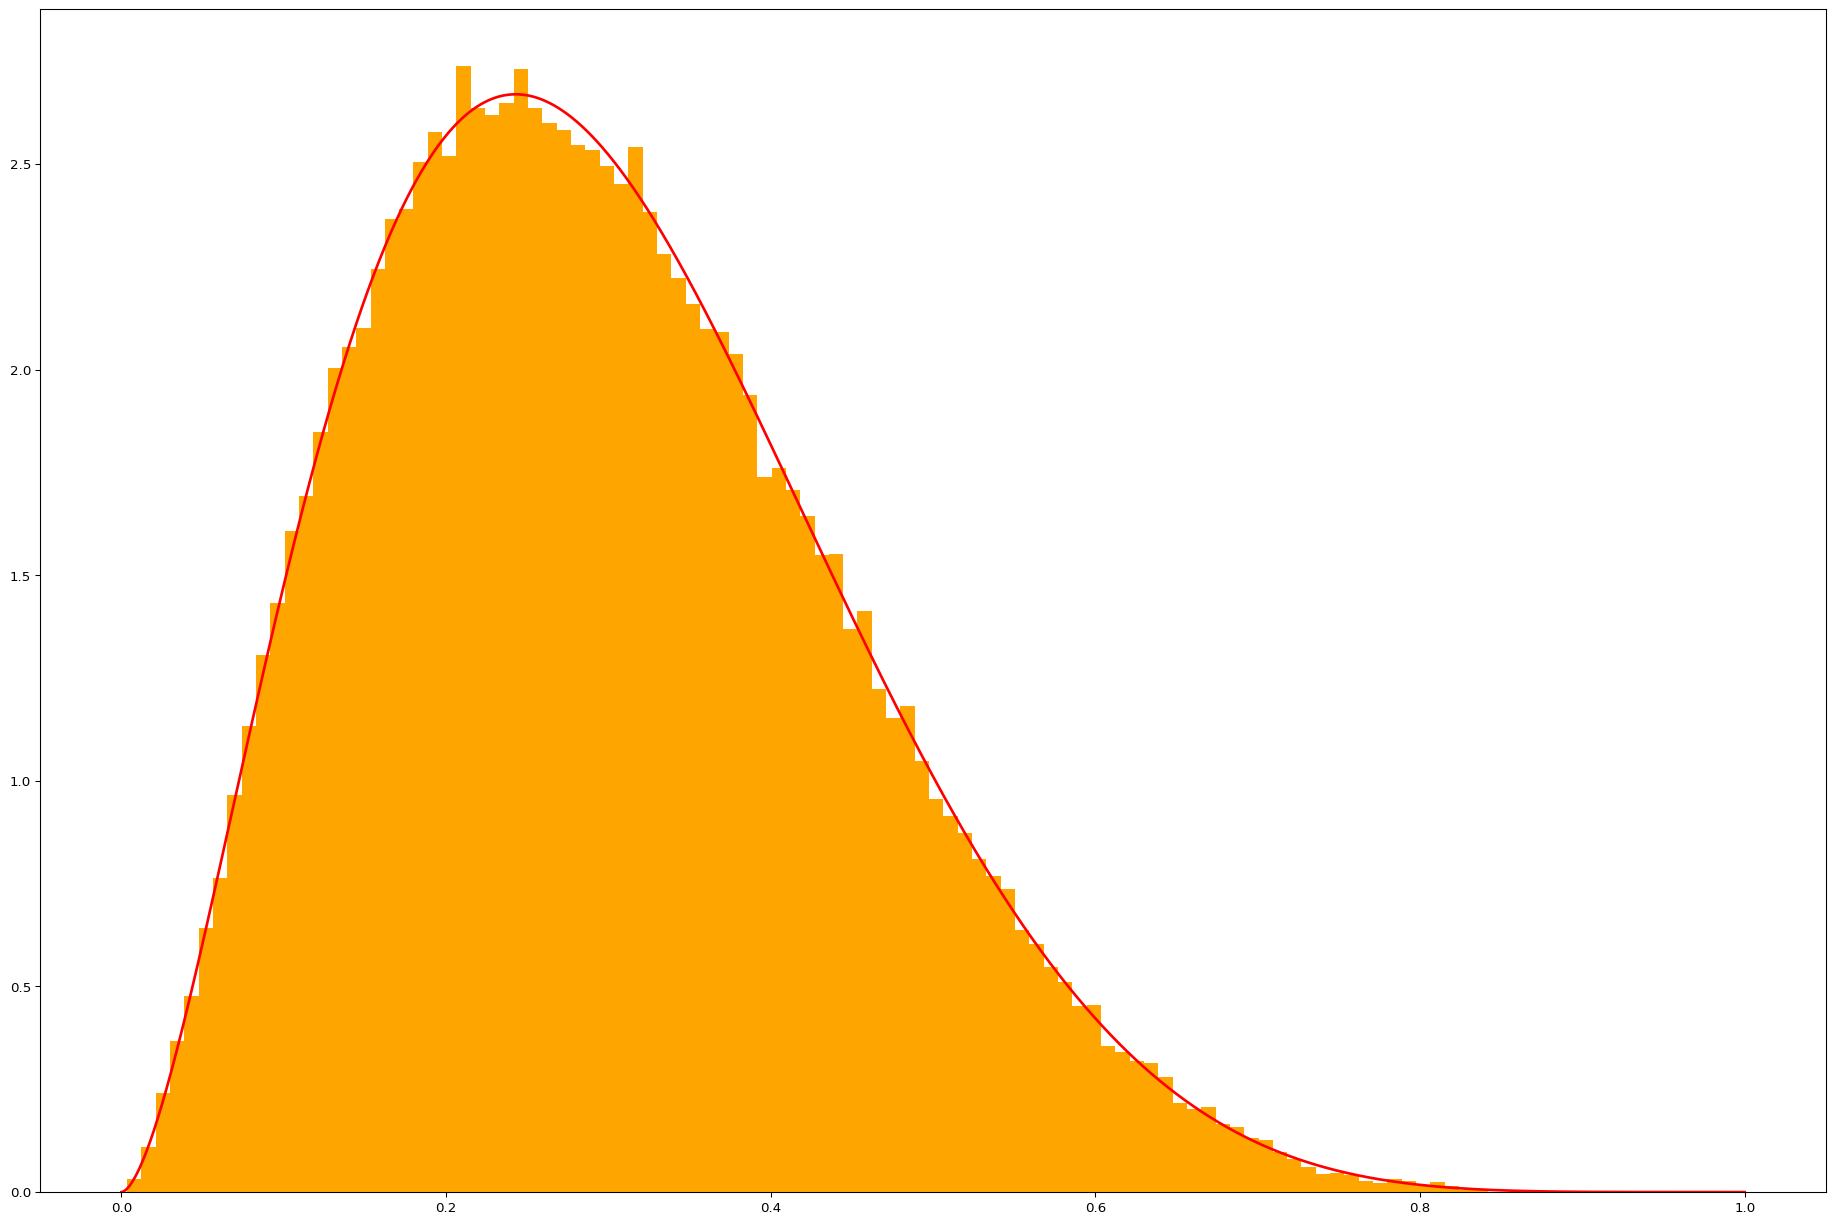
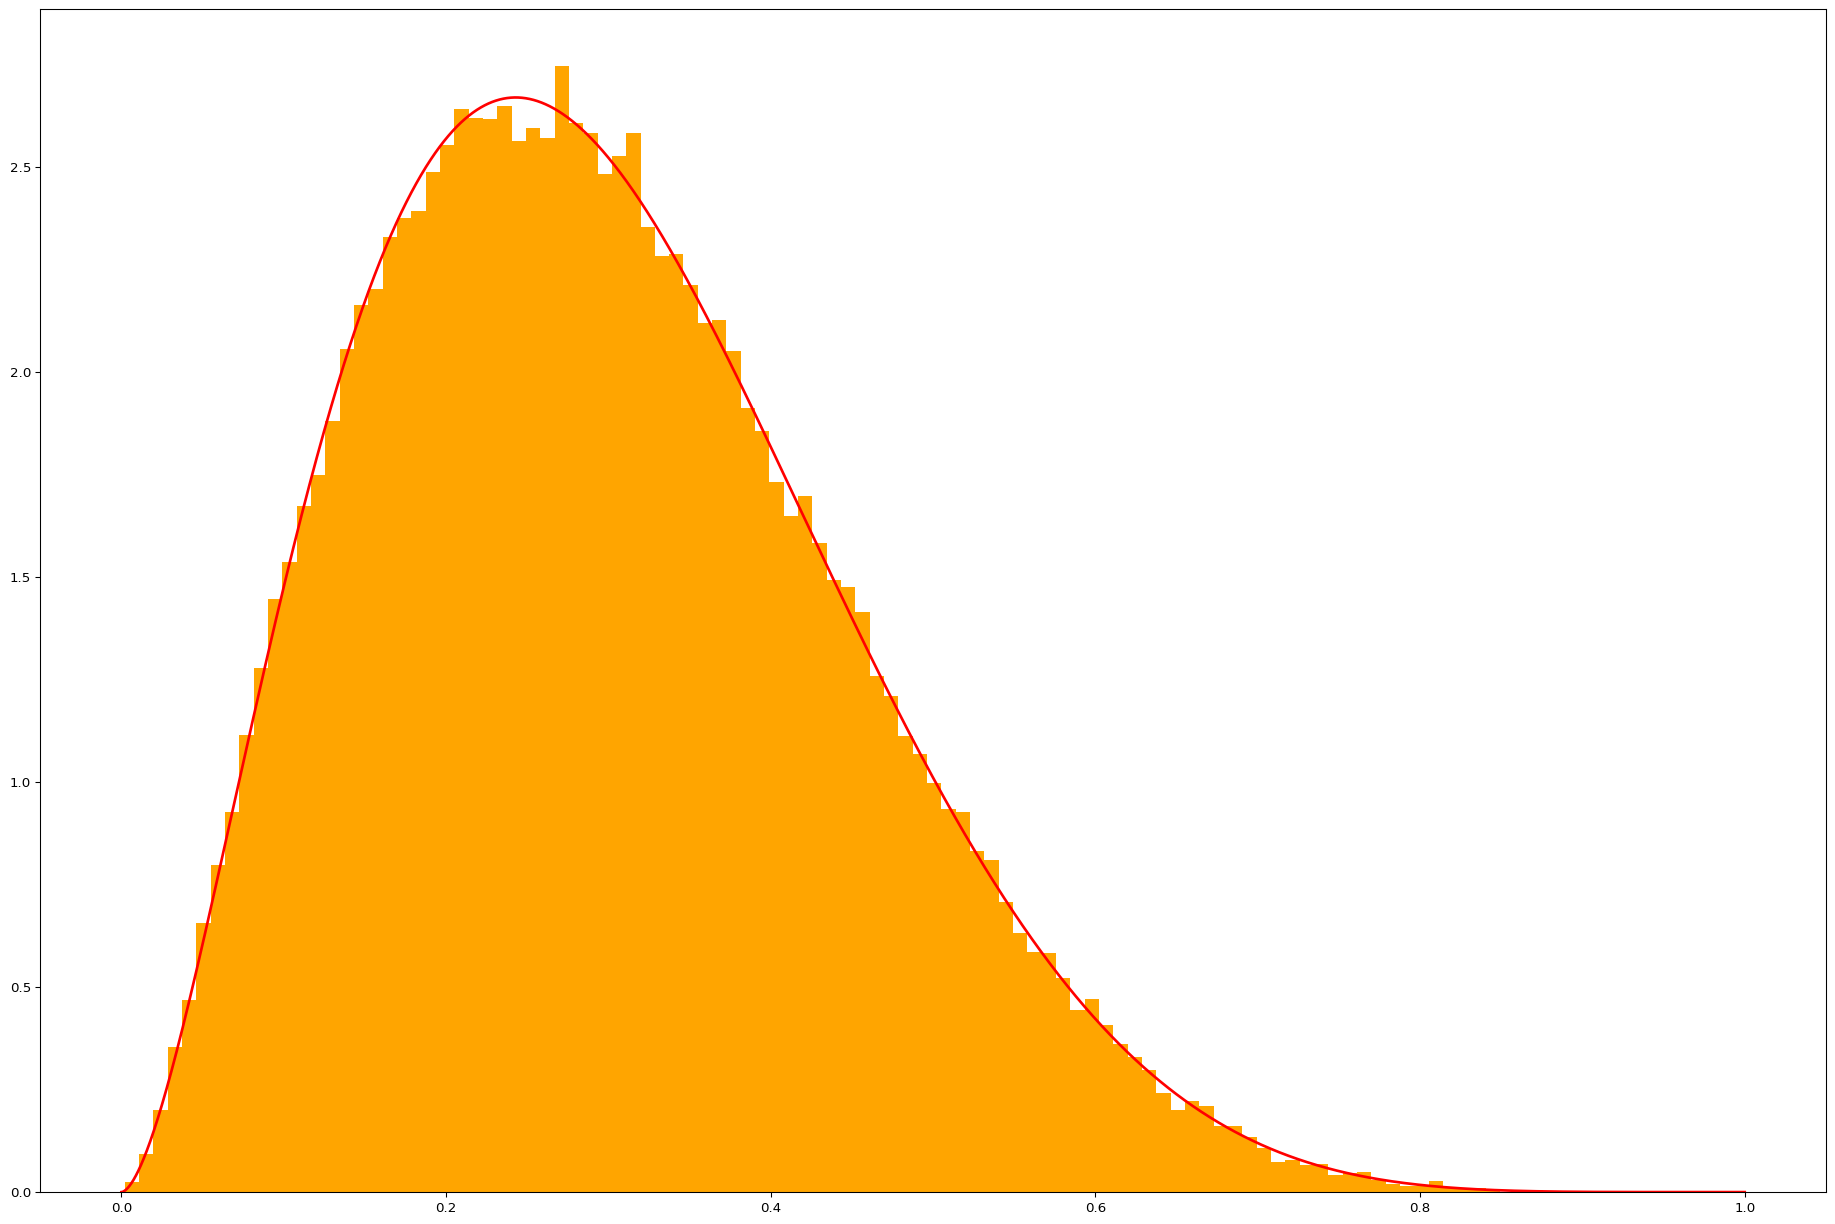
updated

diff --git a/acceptance_rejection.md b/acceptance_rejection.md
@@ -1,4 +1,4 @@
-# acceptance-rejection method with R
+# acceptance-rejection method with python
 
 ## We want to generate data using R from the following distribution
 
@@ -90,28 +90,28 @@ plt.show()
 ```
 
 
-          mean simulation: 0.3006487749474491, 
+          mean simulation: 0.30078913706326244, 
 
           mean Real: 0.30000000000000004, 
 
-          variance simulation: 0.021260579601547872, 
+          variance simulation: 0.021028185265233243, 
 
           variance real: 0.021, 
 
-          number of repeatition: 26456, 
+          number of repeatition: 26657, 
 
           Expected value: 26697.440111491196
           
 
-          mean simulation: 0.2995757025582072, 
+          mean simulation: 0.30010201474014875, 
 
           mean Real: 0.30000000000000004, 
 
-          variance simulation: 0.021065948975646943, 
+          variance simulation: 0.021058133324354508, 
 
           variance real: 0.021, 
 
-          number of repeatition: 267443, 
+          number of repeatition: 268261, 
 
           Expected value: 266974.40111491195
           
